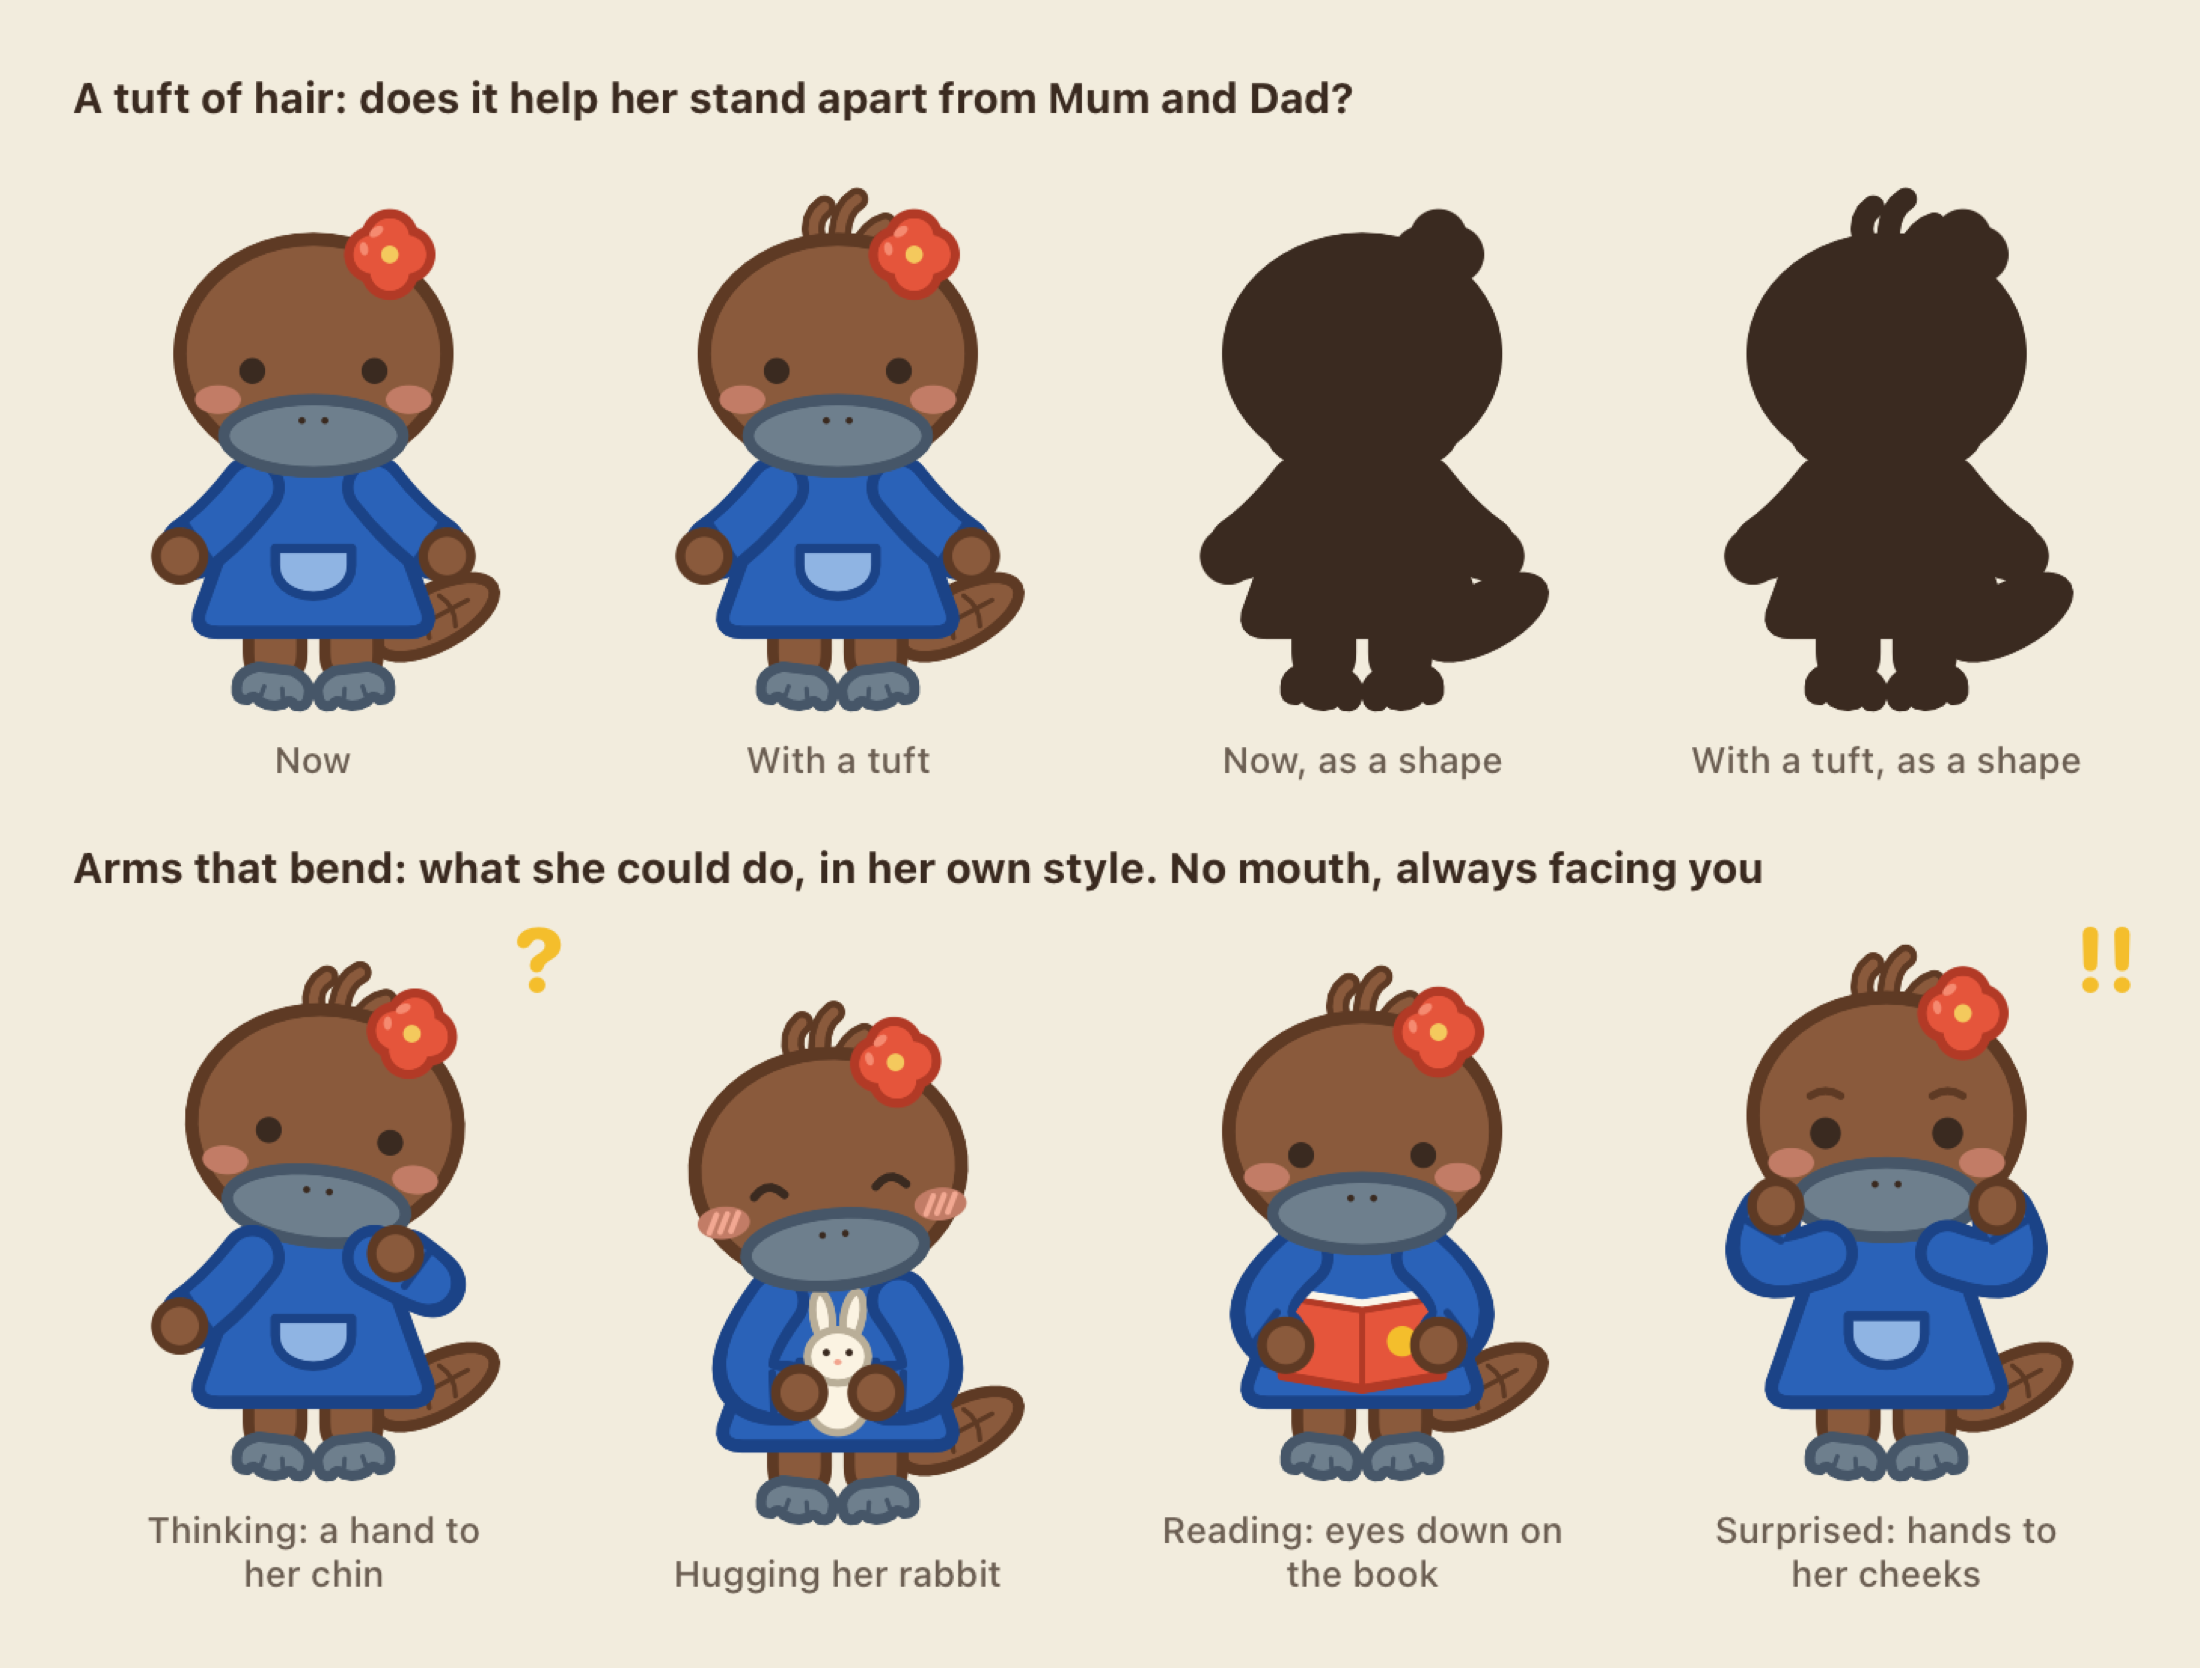
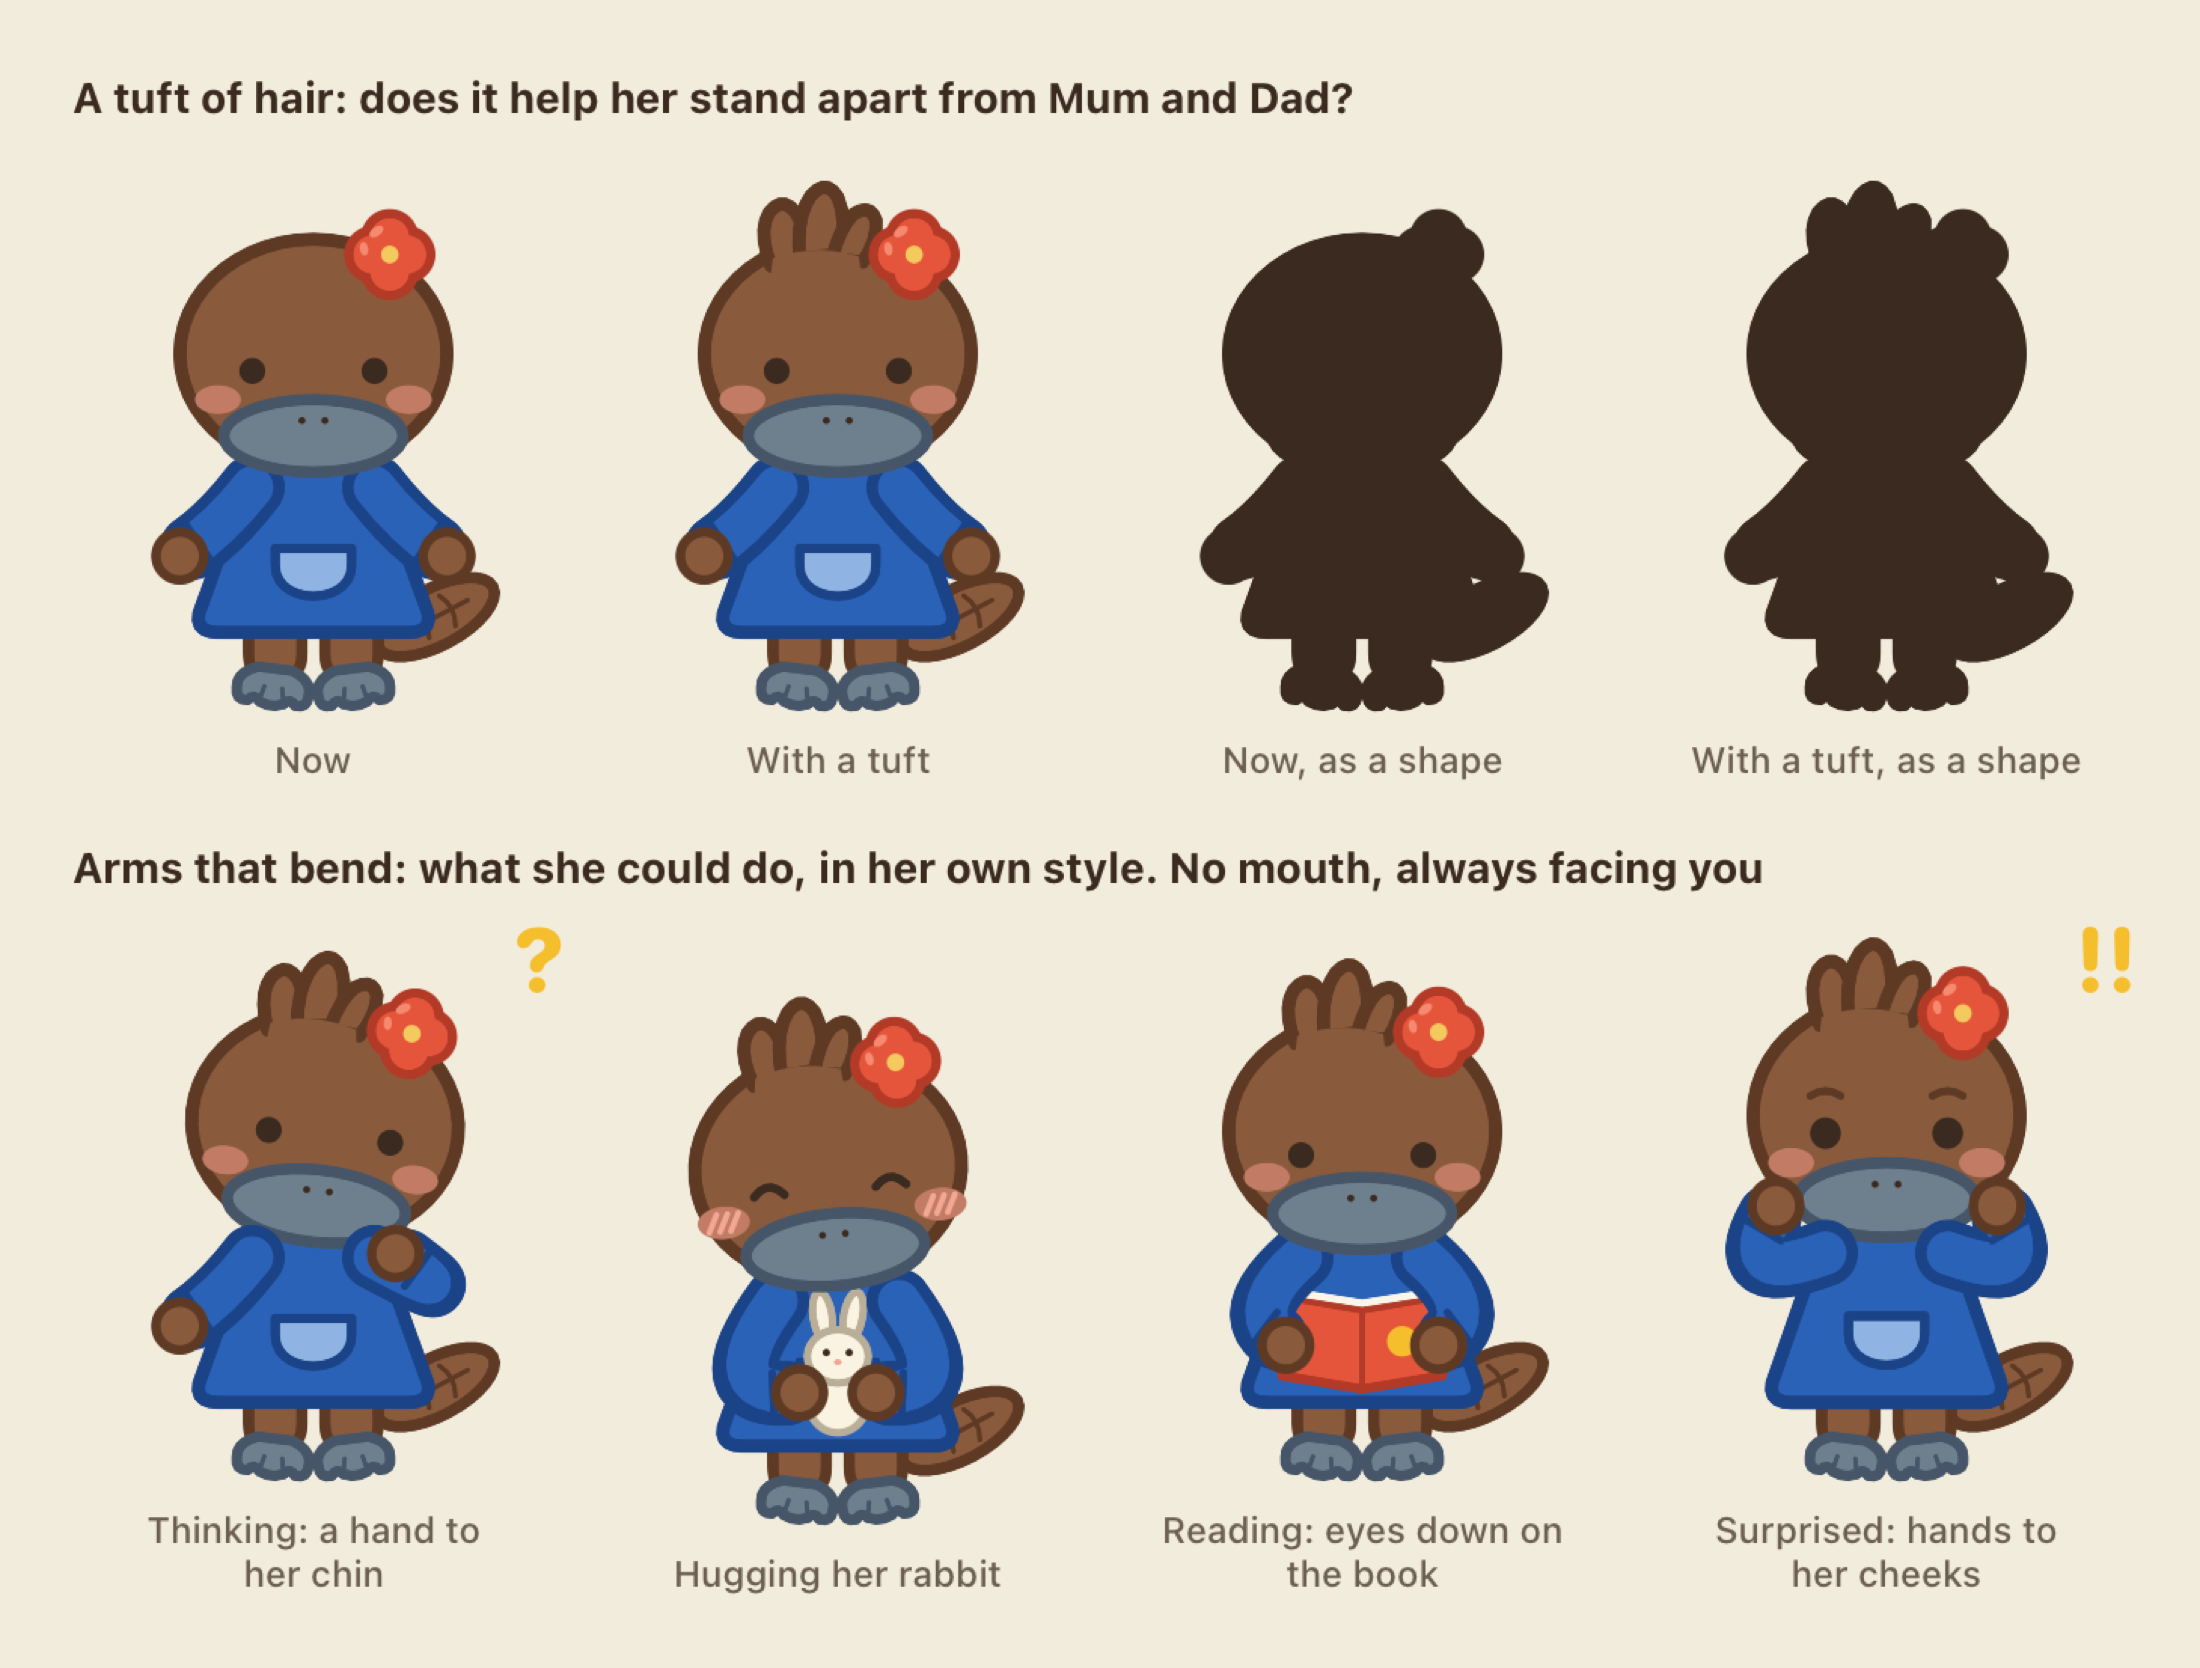
Mock-up: the tuft as part of her head shape, same fur and line, rounded locks

diff --git a/app/Puggle/Features/Family/RefinementSheets.swift b/app/Puggle/Features/Family/RefinementSheets.swift
@@ -79,18 +79,18 @@ enum RefinementSheets {
 
     private static let dark = "#3A2A20", fur = "#8A5A3C", furLine = "#5E3A24", sleeve = "#2A62B8", sleeveLine = "#1B4387"
 
-    /// Three short locks on top of her head, drawn behind it so they grow out of the outline.
+    /// Three locks that are part of her head: the same fur and the same line, joined to it, so the top of her
+    /// head is no longer a plain curve. They sit left of centre, clear of her clip.
     private static func withTuft(_ rig: Rig) -> Rig {
         var copy = rig
         guard let head = copy.parts.firstIndex(where: { $0.id == "head" }) else { return rig }
         var locks: [Rig.Shape] = []
-        for d in ["M110 54 Q103 38 113 31", "M121 52 Q120 33 130 27", "M131 54 Q137 42 145 40"] {
-            locks.append(Rig.Shape(kind: "path", d: d, stroke: dark, tint: furLine, width: 12, cap: "round"))
+        for d in ["M85 62 Q78 44 84 34 Q91 25 98 34 Q104 44 104 60 Z", "M100 58 Q98 36 106 25 Q114 16 120 26 Q125 38 121 56 Z", "M117 58 Q121 42 128 35 Q137 29 140 38 Q141 48 133 60 Z"] {
+            locks.append(Rig.Shape(kind: "path", d: d, fill: fur, stroke: dark, tint: furLine, width: 7))
         }
-        for d in ["M110 54 Q103 38 113 31", "M121 52 Q120 33 130 27", "M131 54 Q137 42 145 40"] {
-            locks.append(Rig.Shape(kind: "path", d: d, stroke: fur, width: 5, cap: "round"))
-        }
-        copy.parts[head].shapes.insert(contentsOf: locks, at: 0)
+        // Fur over the join, so the locks and the head read as one shape with one outline.
+        locks.append(Rig.Shape(kind: "path", d: "M86 58 Q108 50 131 57 L133 74 L84 74 Z", fill: fur))
+        copy.parts[head].shapes.append(contentsOf: locks)
         return copy
     }
 
